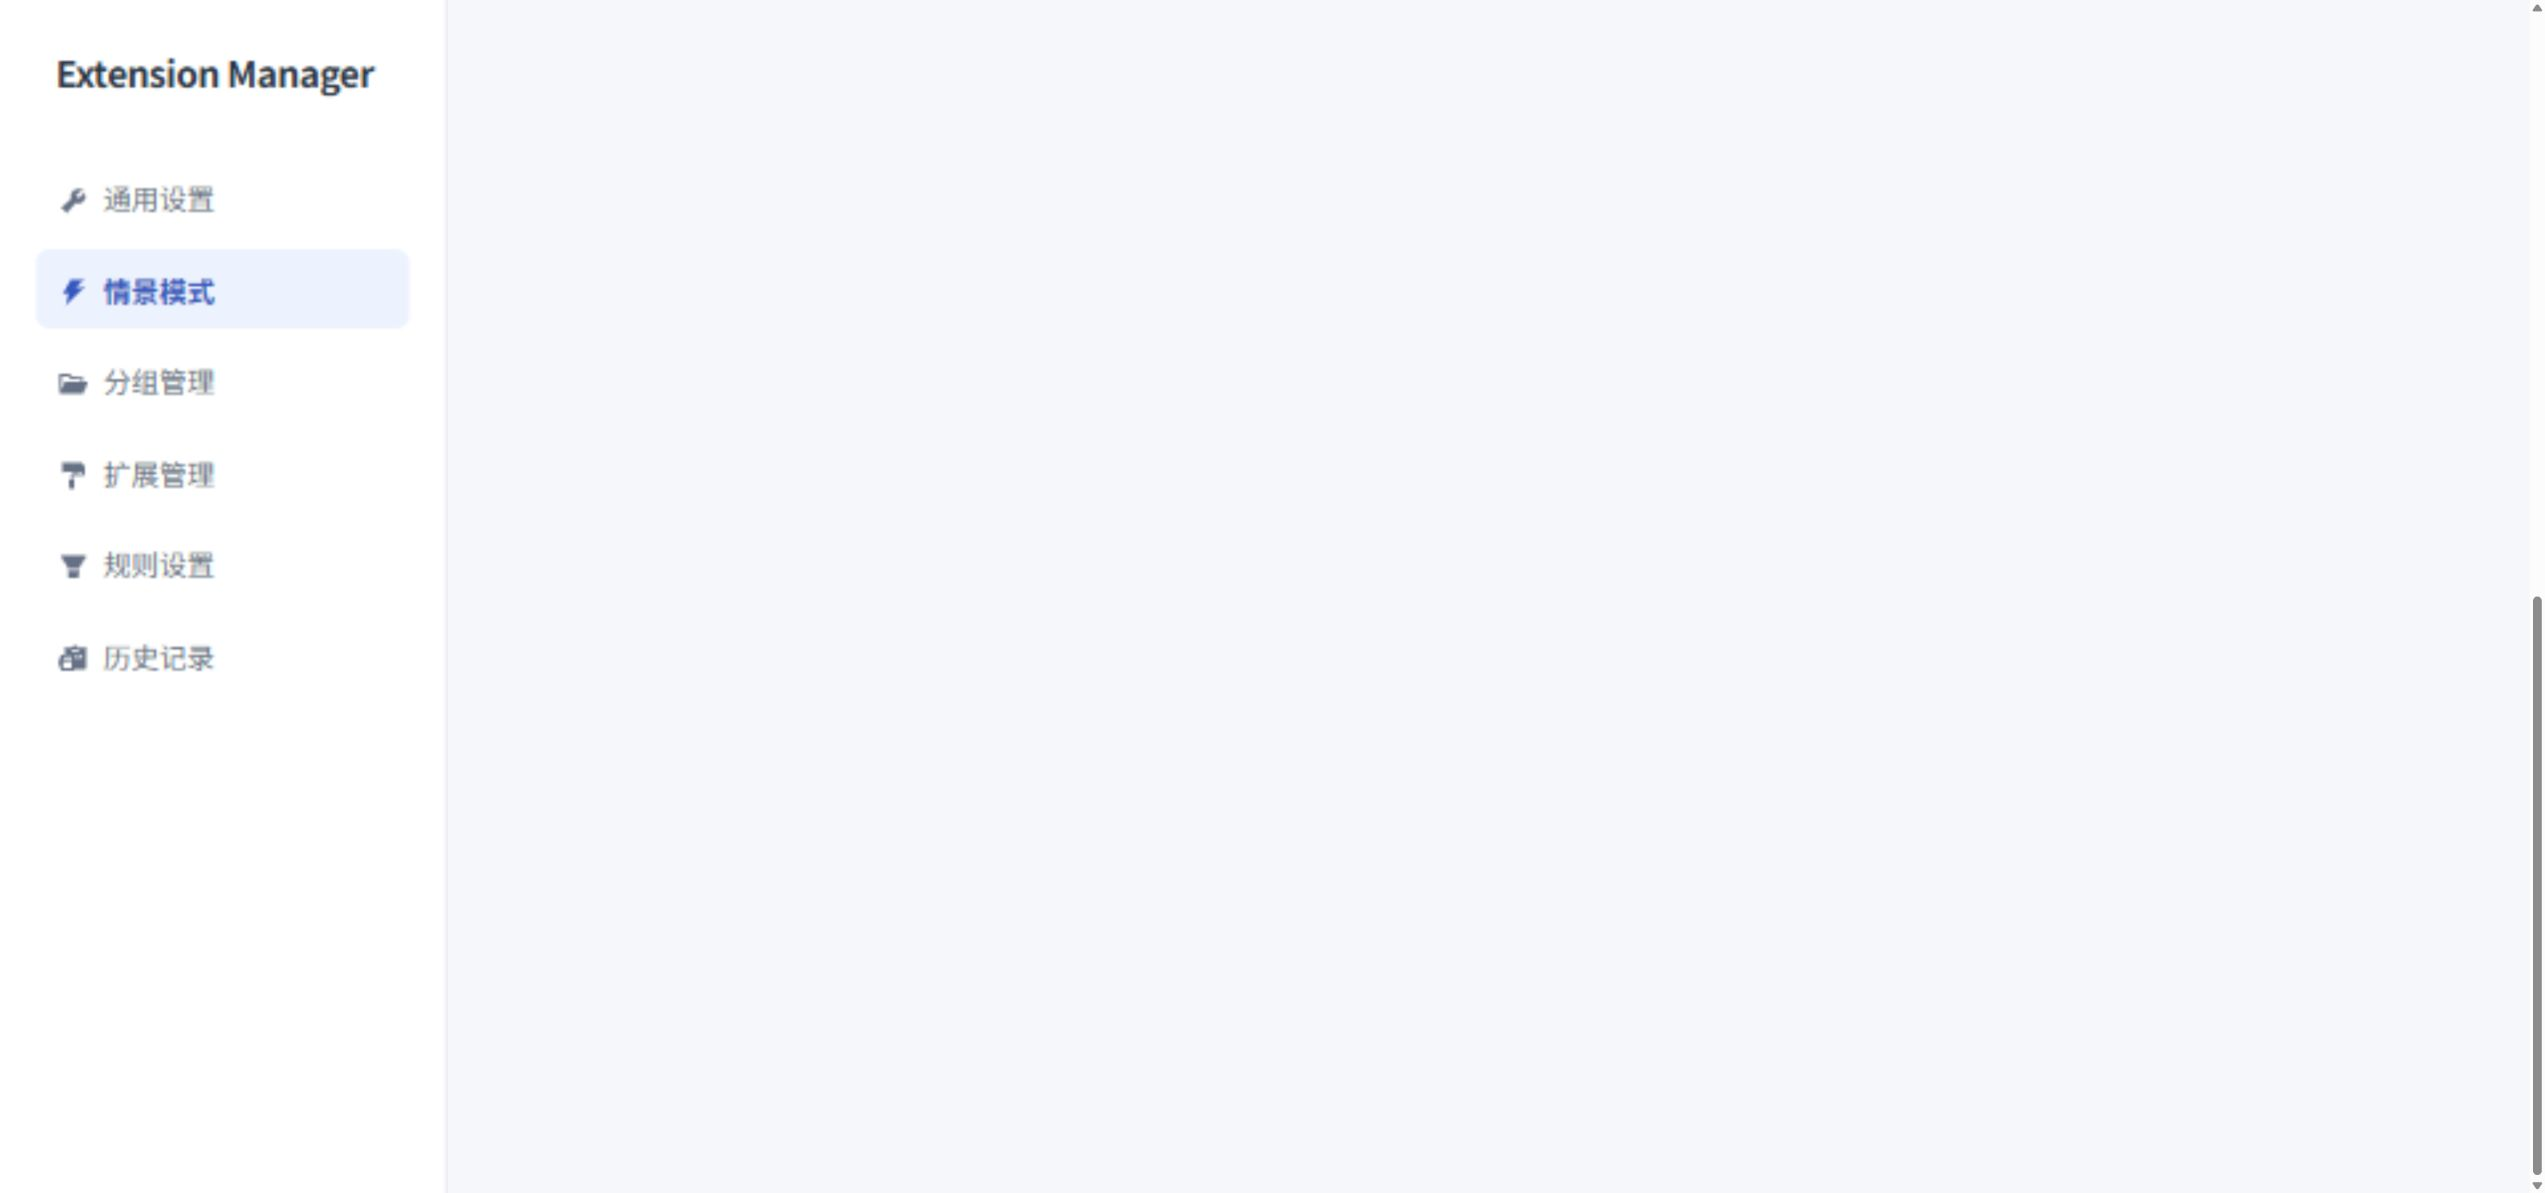
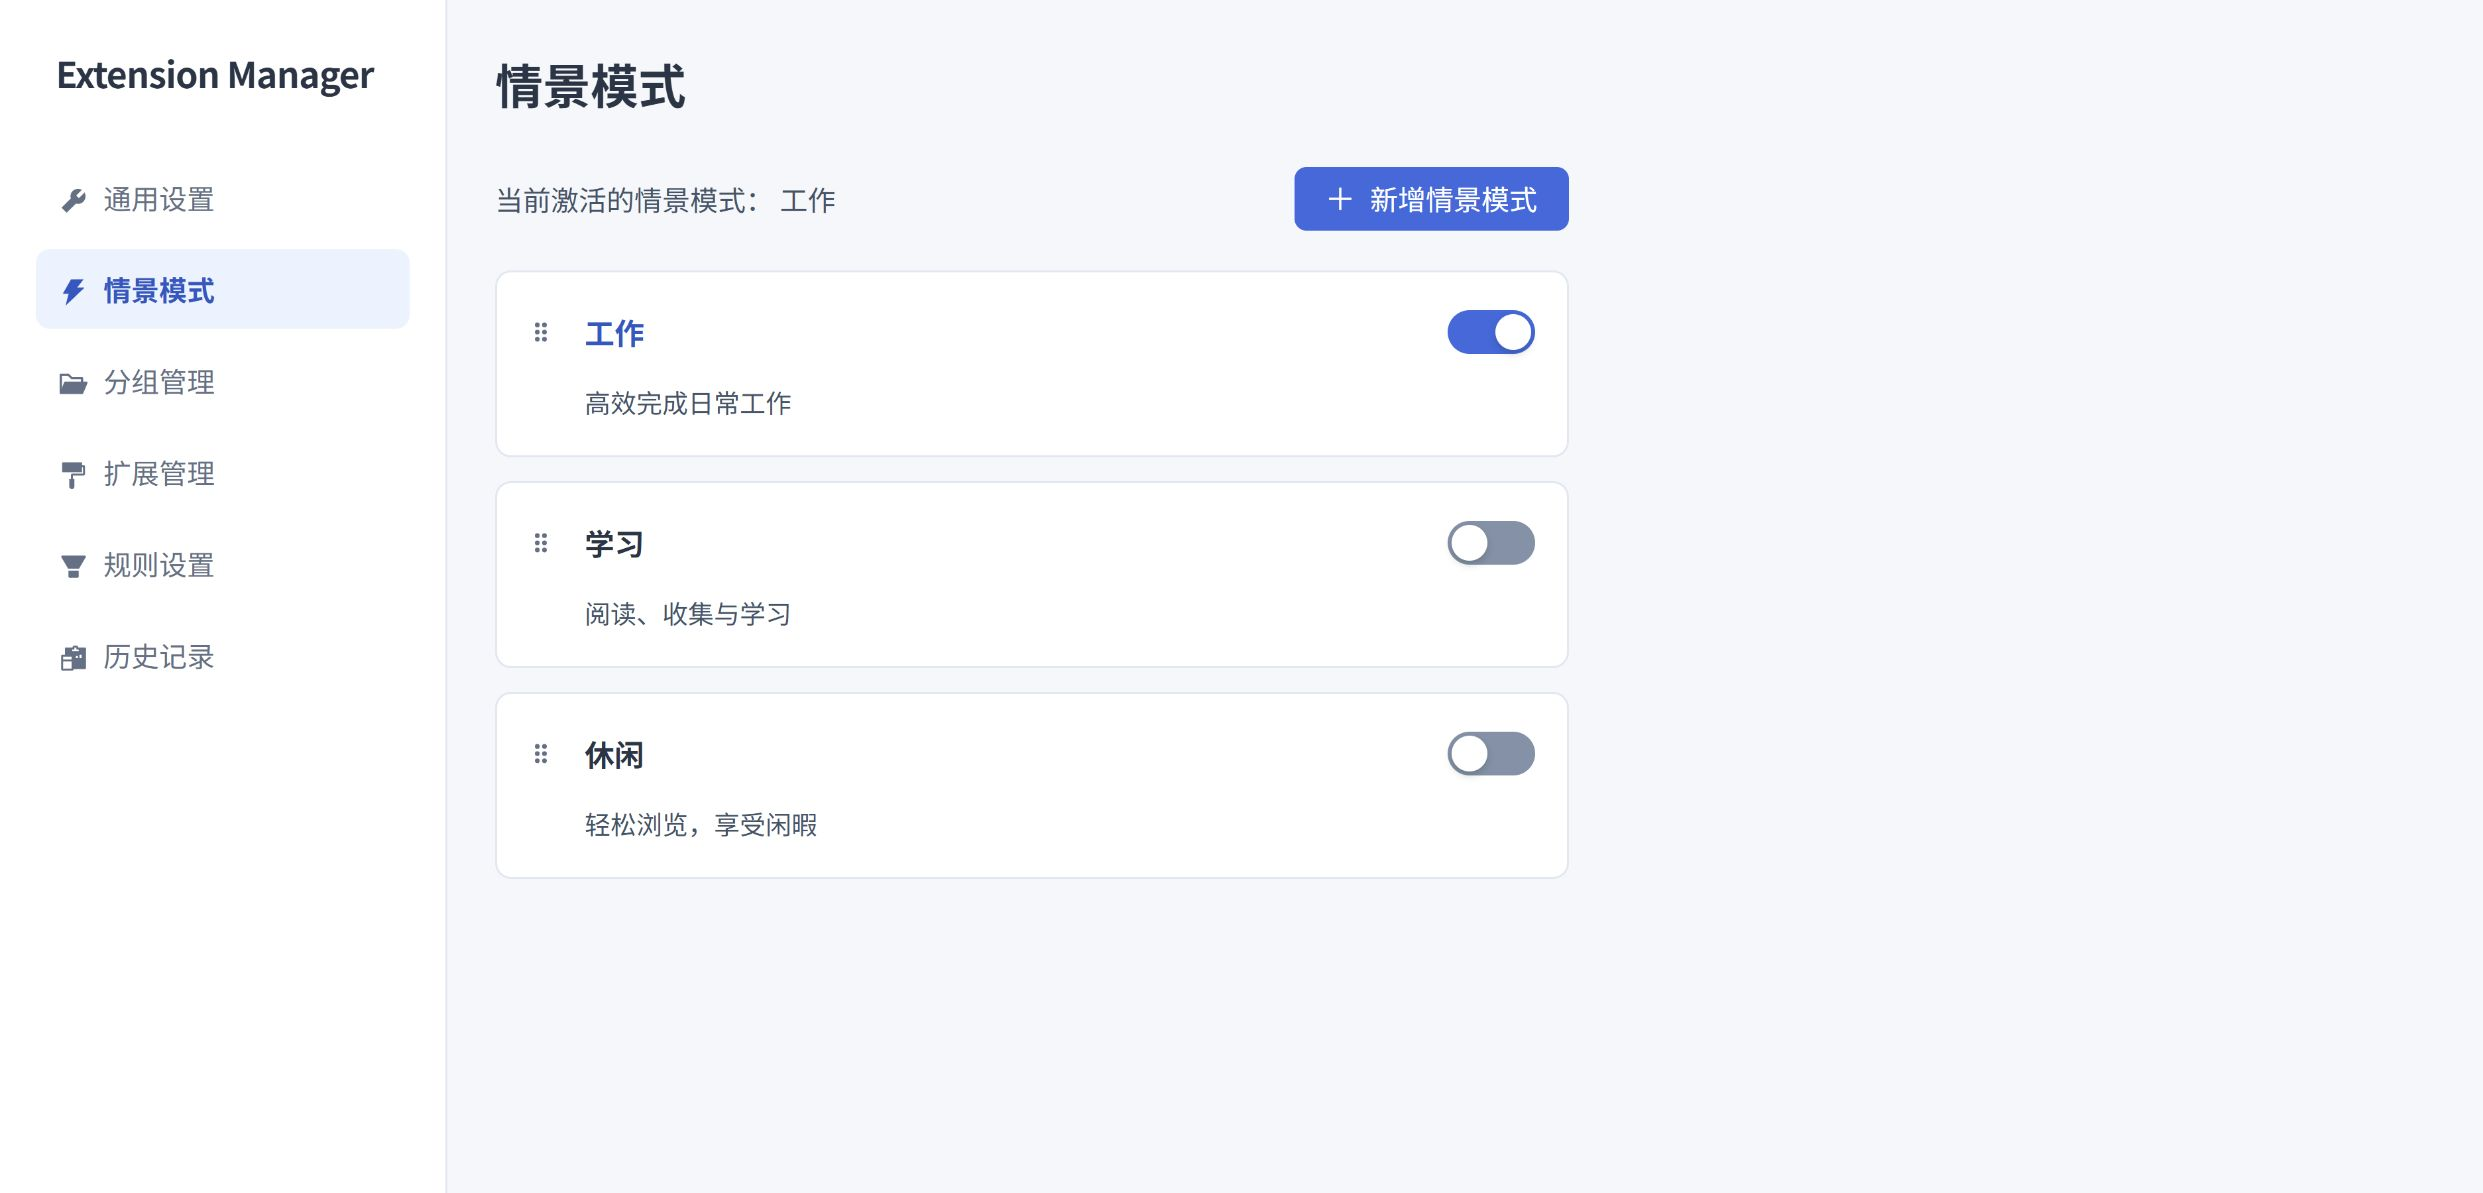
🐳 chore: 更新应用商店截图

diff --git a/store-assets/capture/NOTES.md b/store-assets/capture/NOTES.md
@@ -23,6 +23,13 @@ Add `scale=2` to any URL to zoom the whole document to 200% for a larger
 browser screenshot. For options, use a 2560 × 1200 viewport to retain the
 same effective layout as 1280 × 600. The default scale is 1.
 
+Before saving each screenshot, return the page to the top (Ctrl+Home), then
+inspect the actual captured image. Route changes can preserve the previous
+scroll position; finding text in the accessibility tree alone does not prove
+that it is inside the screenshot. The scene image must include the page title,
+Add Profile button and all three complete Work/Study/Leisure cards. Check the
+composited upload PNG too before refreshing the preview and upload ZIP.
+
 This bundle compiles the unmodified current React entrypoints, with the real
 storage facades. It installs an isolated synthetic `chrome` API before dynamic
 imports, seeds eight fictional extensions, three named groups and scenes, five rules and
